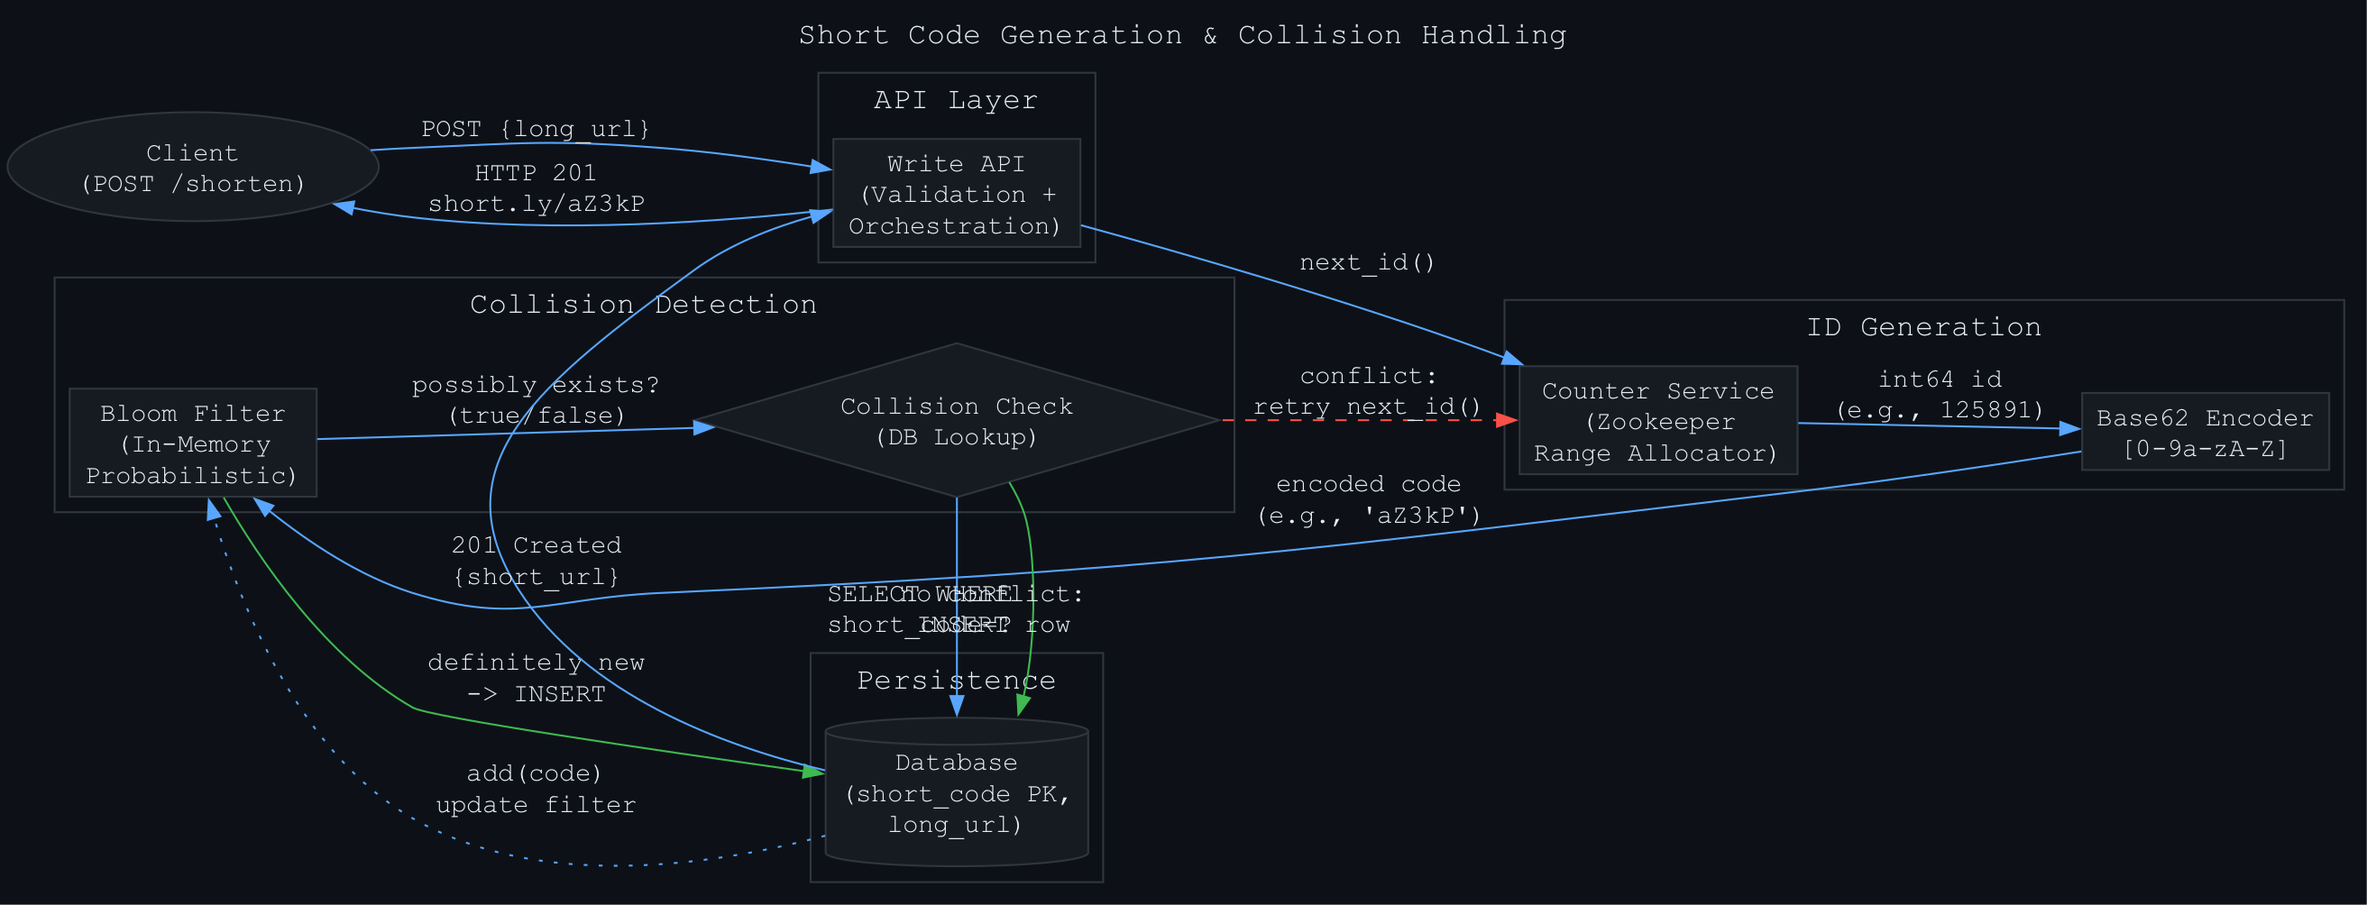
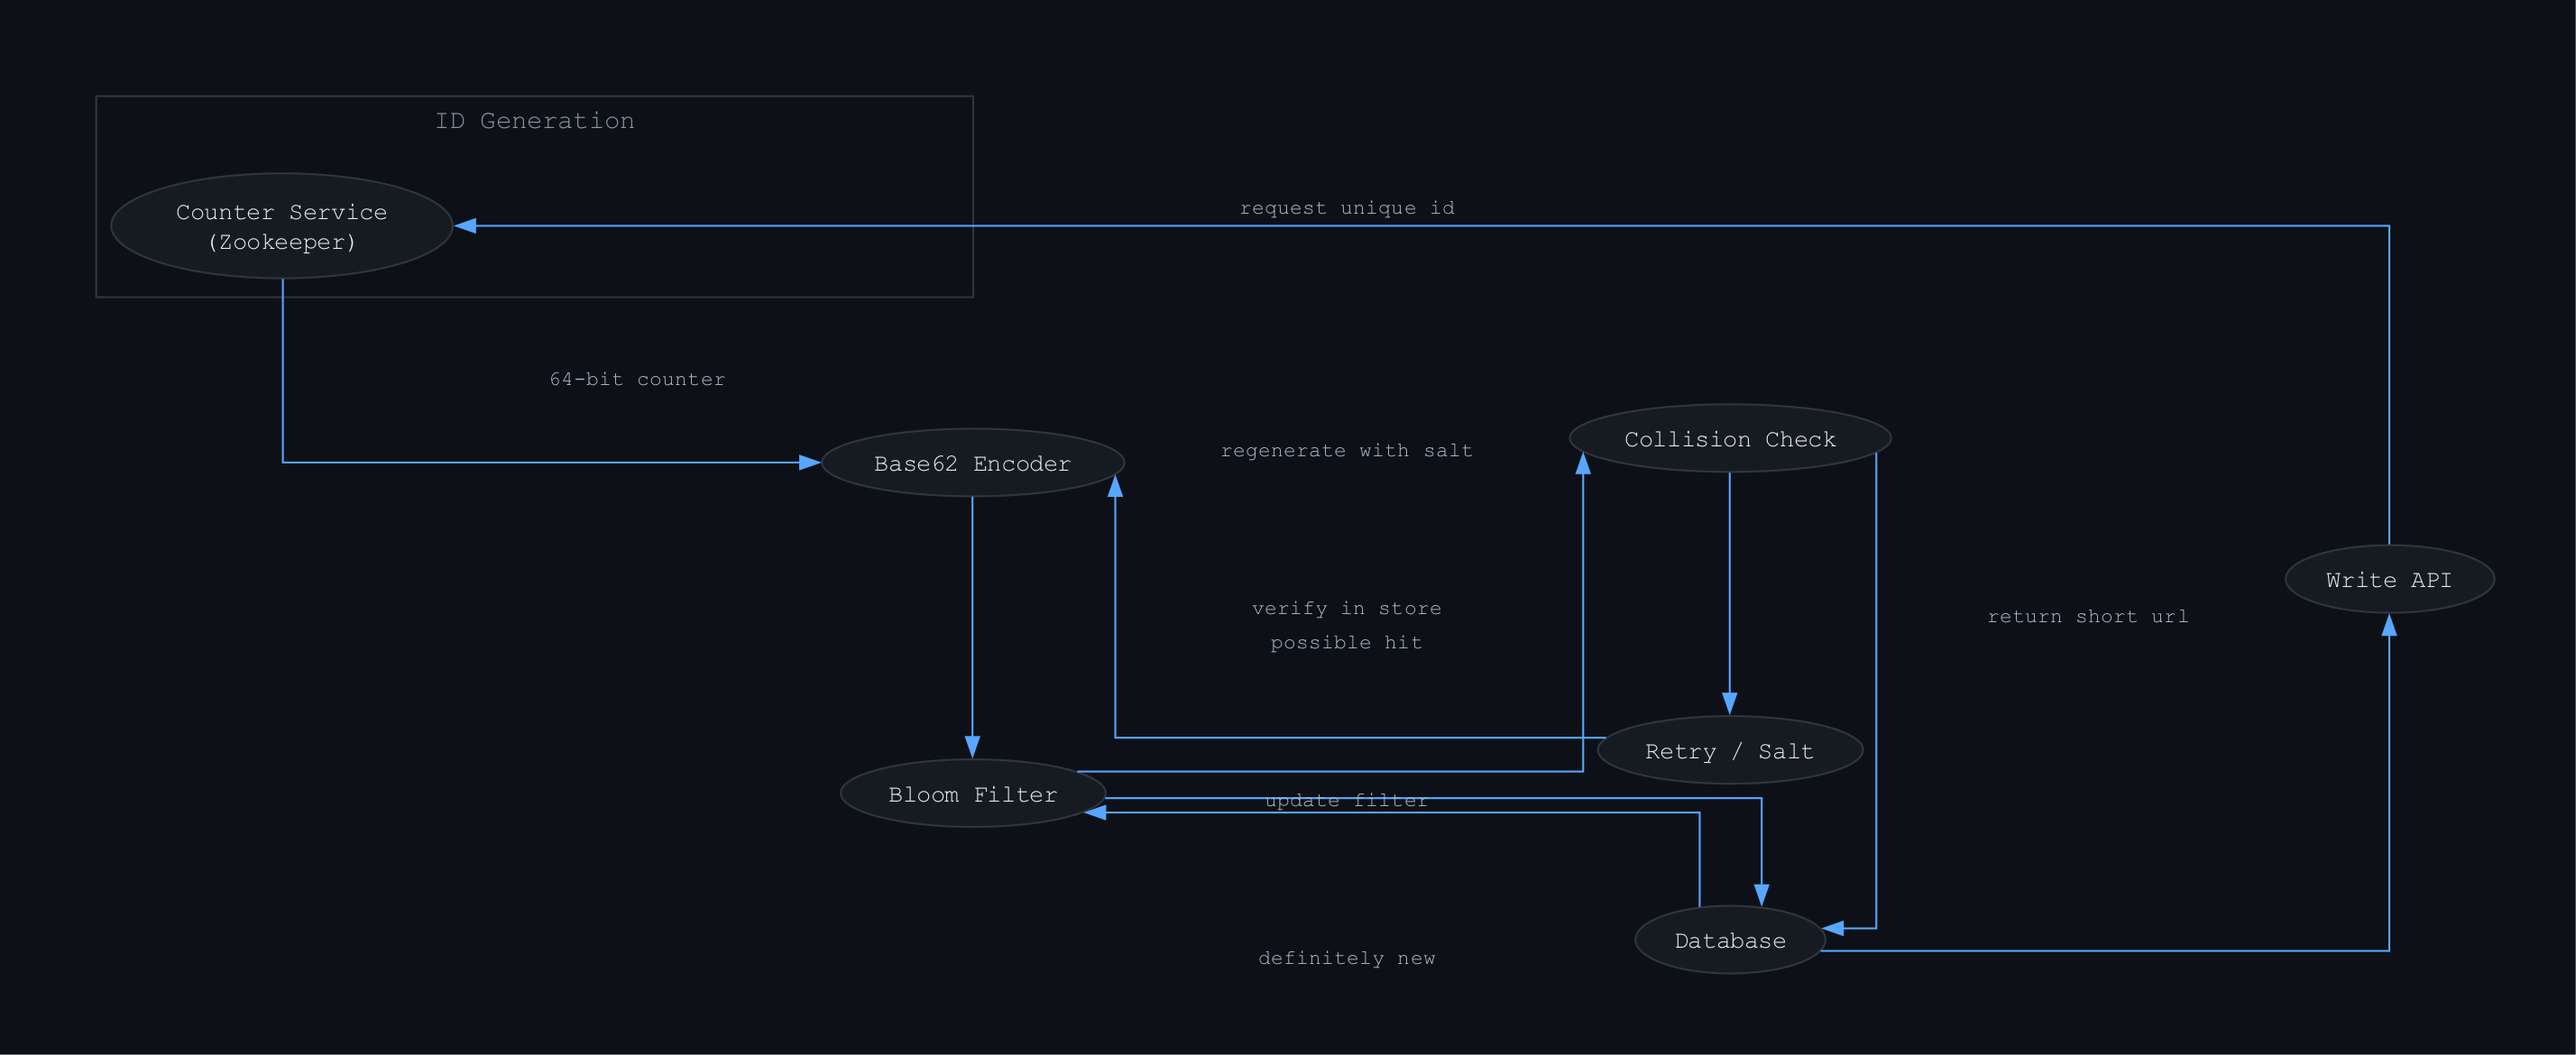
fix(pipeline): improve DOT layout — ortho splines, spacing, no bidirectional edges

diff --git a/apps/camora/scripts/research-topic.py b/apps/camora/scripts/research-topic.py
@@ -281,14 +281,17 @@ def _generate_dot_for_deep_dive(topic_id: str, entry: dict) -> str:
         Description: {entry['description']}
         Key components: {', '.join(entry.get('components', []))}
 
-        Requirements:
-        - Dark theme: graph bgcolor="#0d1117", node fillcolor="#161b22", fontcolor="#e6edf3"
-        - Edge color="#58a6ff", node style=filled, node color="#30363d"
-        - rankdir=LR for flow diagrams
-        - Label each edge with the action/data flowing (e.g., "HTTP GET /r/abc")
-        - Use subgraphs (cluster_*) to group related components
-        - fontname="Courier New" on all nodes and edges
-        - Output ONLY valid DOT source, no explanation, no markdown fences.
+        STRICT layout rules — follow all of these exactly:
+        - graph attrs: bgcolor="#0d1117" rankdir=LR splines=ortho nodesep=0.9 ranksep=1.4 pad=0.6 dpi=150
+        - node attrs: style=filled fillcolor="#161b22" color="#30363d" fontcolor="#e6edf3" fontname="Courier New" fontsize=13
+        - edge attrs: color="#58a6ff" fontcolor="#adbac7" fontname="Courier New" fontsize=11
+        - NEVER draw bidirectional arrows (a -> b AND b -> a). Pick one direction only, or use a single edge with label indicating both directions.
+        - Max 12 edges total. Trim less important flows.
+        - Edge labels must be SHORT — 3-6 words max, no parentheses.
+        - No more than 2 subgraphs (cluster_*). Only use subgraphs for truly co-located components.
+        - At least 3 nodes must be at the same rank — use {{ rank=same; A; B; C; }} to force horizontal alignment.
+        - Subgraph style: bgcolor="#0d1117" color="#30363d" fontcolor="#8b949e" fontname="Courier New"
+        - Output ONLY valid DOT source — no explanation, no markdown fences, no comments.
     """).strip()
 
     msg = client.messages.create(
